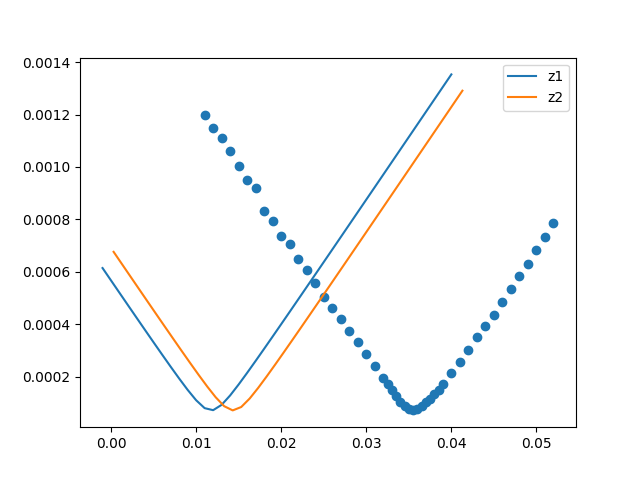
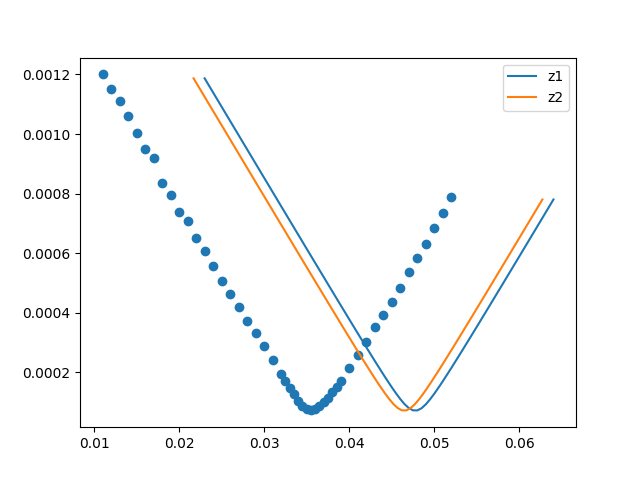
analiza danych 290725 fin

diff --git a/!wyniki/1transmittance_vs_fluence_plot.py b/!wyniki/1transmittance_vs_fluence_plot.py
@@ -36,7 +36,10 @@ P1_measured = df['Power1 [W]']
 P2_measured = df['Power2 [W]']
 z = df['Position [mm]']
 z_sample = z * 1e-3  # mm -> m
-P_ref = 0.484	#W
+# 230725
+# P_ref = 0.484
+# 290725
+P_ref = 0.456	#W
 
 T1 = P1_measured / P_ref * 100 #transmitancja [%]
 T2 = P2_measured / P_ref * 100
@@ -47,8 +50,8 @@ z2_maxT = z_sample[np.argmax(T2)]
 z1_shift = z_min - z1_maxT
 z2_shift = z_min - z2_maxT
 
-z1_cal = z_cal - z1_shift
-z2_cal = z_cal - z2_shift
+z1_cal = z_cal + z1_shift
+z2_cal = z_cal + z2_shift
 
 '''FITTING'''
 
@@ -67,8 +70,8 @@ fitParams_Y2, fitCovariances_Y2 = optimize.curve_fit(d4Sig, z2_cal, d_cal_Y, p0=
 # M2_Y -> fitParams_Y[1]
 
 plt.scatter(z_cal, d_cal_X)
-plt.plot(z1_cal, d4Sig(z_cal, fitParams_X1[0], fitParams_X1[1], fitParams_X1[2]), label='z1')
-plt.plot(z2_cal, d4Sig(z_cal, fitParams_X2[0], fitParams_X2[1], fitParams_X2[2]), label='z2')
+plt.plot(z1_cal, d4Sig(z1_cal, fitParams_X1[0], fitParams_X1[1], fitParams_X1[2]), label='z1')
+plt.plot(z2_cal, d4Sig(z2_cal, fitParams_X2[0], fitParams_X2[1], fitParams_X2[2]), label='z2')
 file_save = 'fit.png'
 plt.legend()
 plt.savefig(os.path.join(my_path, file_save))
@@ -103,15 +106,15 @@ Fy1 = E1/Ay1 #uJ/cm2
 Fx2 = E2/Ax2 #uJ/cm2
 Fy2 = E2/Ay2 #uJ/cm2
 
-'''PLOTTING'''
+# '''PLOTTING'''
 
 sns.set(style="whitegrid")
 
 plt.figure(figsize=(10,8))
-# plt.plot(Fx1, T1, color='cornflowerblue', linewidth=2, label='Pomiar w osi X')
-# plt.plot(Fy1, T1, color='coral', linewidth=2, label='Pomiar w osi Y')
+plt.plot(Fx1, T1, color='cornflowerblue', linewidth=2, label='Pomiar w osi X')
+plt.plot(Fy1, T1, color='coral', linewidth=2, label='Pomiar w osi Y')
 plt.plot(Fy2, T1, color='cornflowerblue', linewidth=2, label='Miernik 1')
-# plt.plot(Fx2, T2, color='coral', linewidth=2, label='Miernik 2')
+plt.plot(Fx2, T2, color='coral', linewidth=2, label='Miernik 2')
 
 plt.xlabel(r"Fluence $\left[\frac{ μ\text{J}}{\text{cm}^2}\right]$", fontsize=14)
 plt.ylabel("Transmittance [%]", fontsize=14)

diff --git a/!wyniki/3transmittance_vs_position.py b/!wyniki/3transmittance_vs_position.py
@@ -4,17 +4,17 @@ import pandas as pd
 import os
 
 # wpisz ścieżkę do katalogu z danymi
-my_path = r'/workspaces/Rezonatory2025/!wyniki/290725_reference'
+my_path = r'/workspaces/Rezonatory2025/!wyniki/290725_open_closed_aperture'
 # wpisz nazwę pliku
-file = r'power-meter_reference_290725.csv'
+file = r'open_close_aperture_mwcnt1_290725.csv'
 # wpisz nazwę pliku do zapisu wykresu
-file_save = r'power-meter_reference_290725_plot.png'
+file_save = r'open_close_aperture_mwcnt1_290725_plot2.png'
 
 data = pd.read_csv(os.path.join(my_path, file))
 df = pd.DataFrame(data)
 
-P1 = df['Power1 [W]']*1000 #W -> mW
-P2 = df['Power2 [W]']*1000 #W -> mW
+P1 = df['Power1 [W]'] 
+P2 = df['Power2 [W]'] 
 z = df['Position [mm]']
 
 '''POWER BEFORE'''
@@ -30,8 +30,8 @@ P_trans = 0.444
 # P1 = P1 / P1.max()
 # P2 = P2 / P2.max()
 
-plt.plot(z, P1, color='chocolate')
-# plt.plot(z, P2, color='darkblue')
+# plt.plot(z, P1, color='chocolate')
+plt.plot(z, P2, color='darkblue')
 plt.xlabel('Pozycja [mm]')
 plt.ylabel('Moc [W]')
 plt.xlim(0,46.5)
